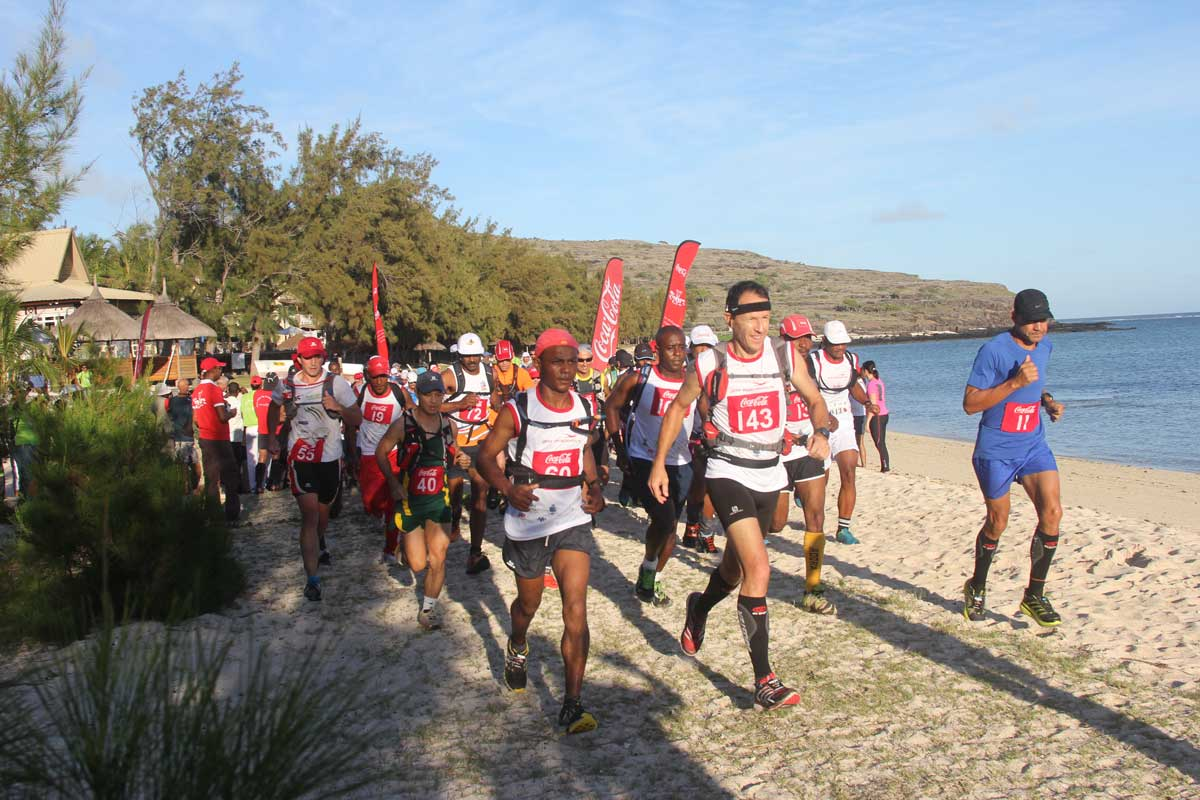
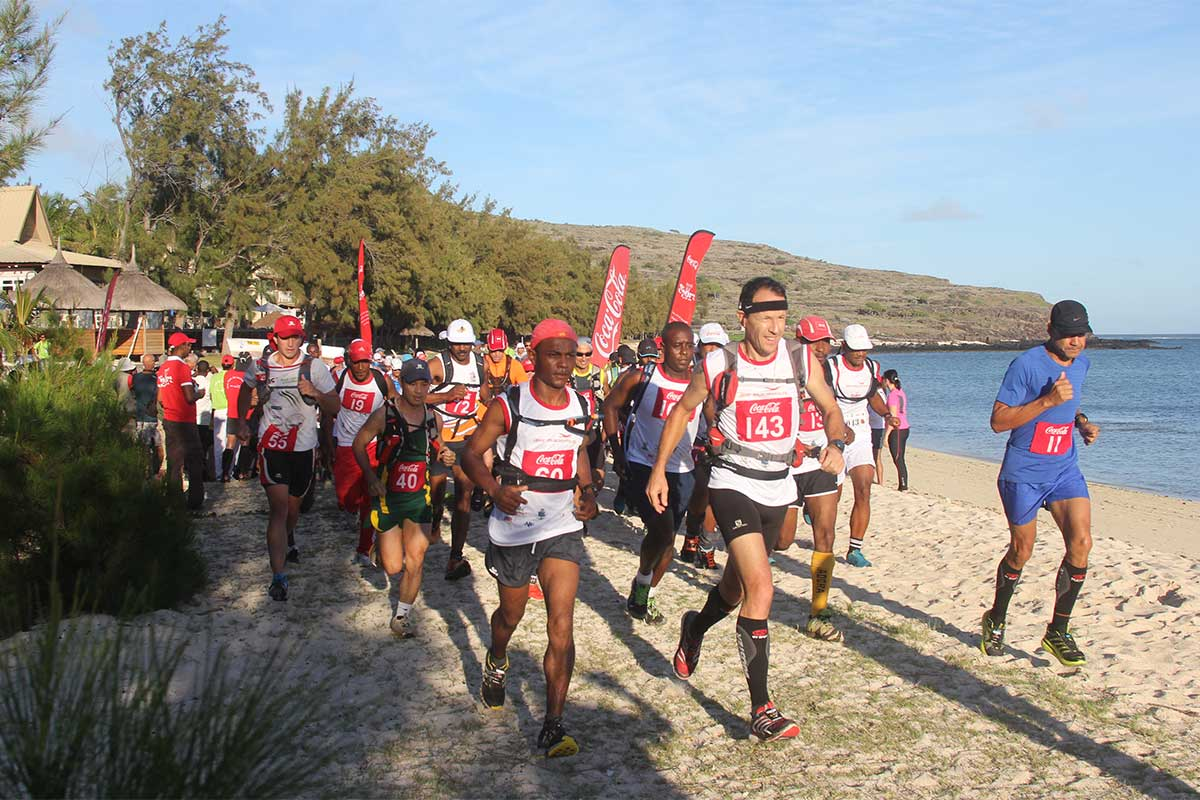
Change image

diff --git a/app/assets/stylesheets/common.scss b/app/assets/stylesheets/common.scss
@@ -252,6 +252,9 @@ a.social-icon {
   &.beach-start {
     background-image: url(asset-path('beach-start.jpg'));
   }
+  &.tdr-start {
+    background-image: url(asset-path('tdr-start.jpg'));
+  }
   &.pig {
     background-image: url(asset-path('pig-in-basket.jpg'));
     background-position: 50% 10% !important;
